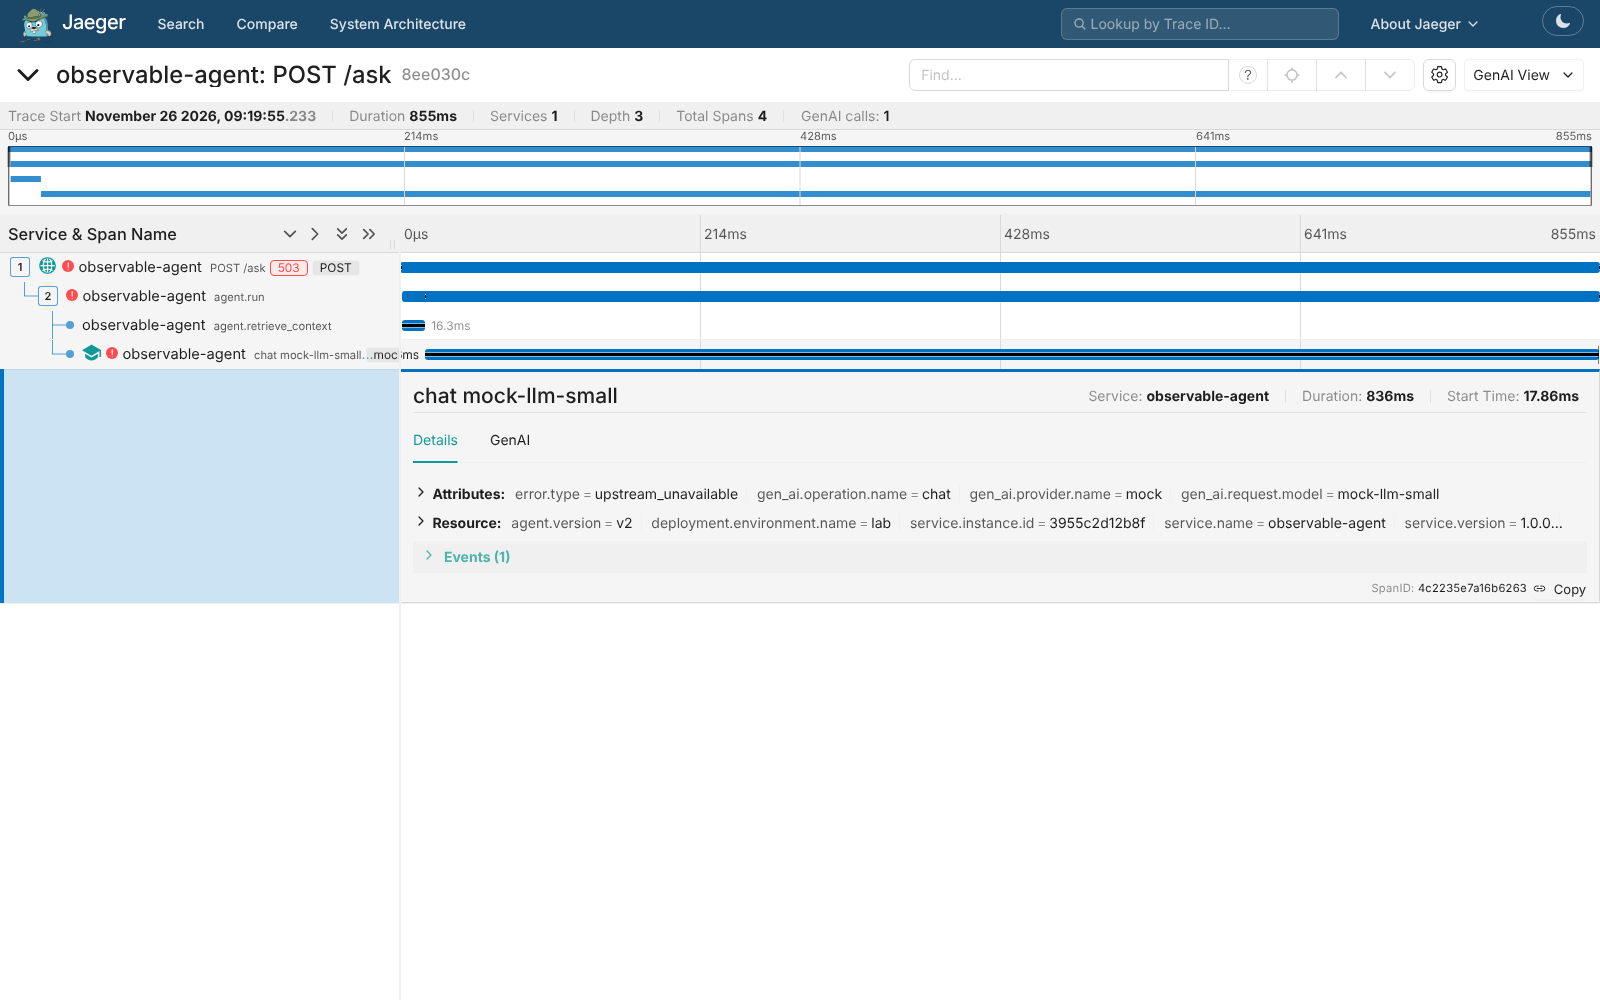
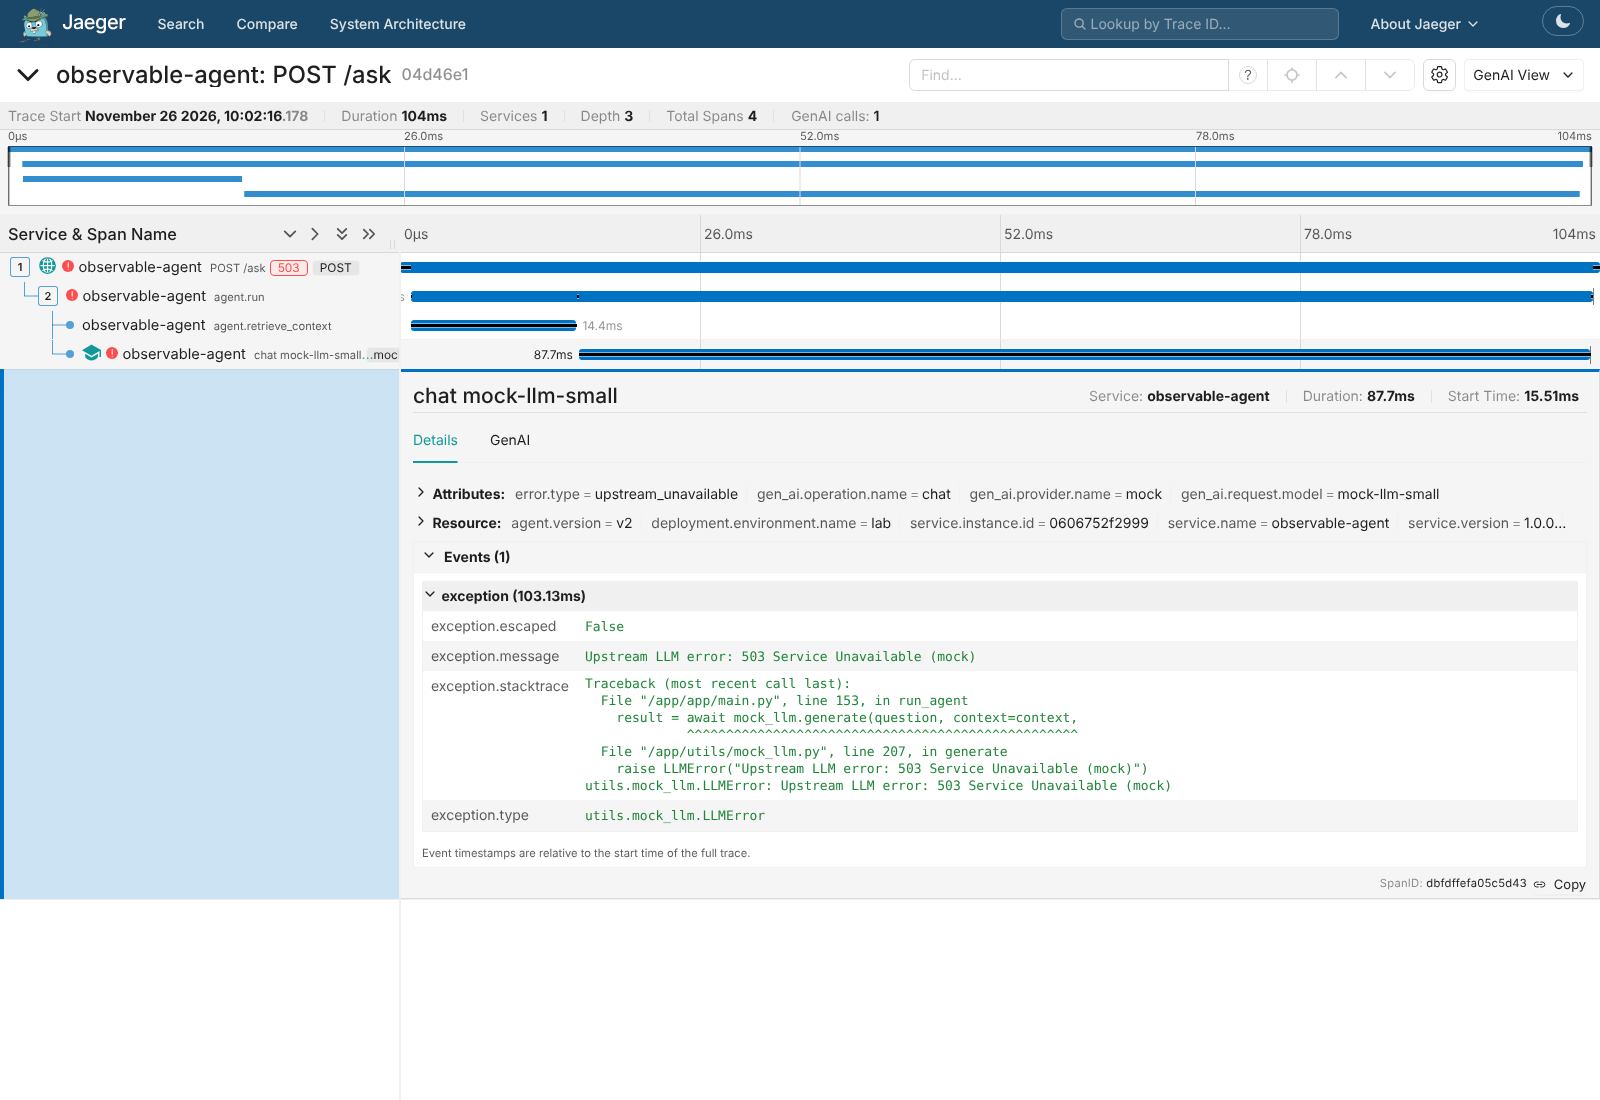
docs: fix error-trace evidence, Part 6 image size; add DEPLOYMENT.md draft
- jaeger-error-trace.png now shows the expanded exception event
  (message, stacktrace, type); report updated with matching trace_id/logs
- MISSION_ANSWERS: Part 6 image 248 MB (latest full check)
- DEPLOYMENT.md template with self-test commands and env vars

Claude-Session: https://claude.ai/code/session_01MTmULUUqV4bQNYgBRawjqZ

diff --git a/BENCHMARK_REPORT.md b/BENCHMARK_REPORT.md
@@ -83,7 +83,7 @@ Stack chạy bằng `docker compose -p k5-day14-observability ...` (Prometheus, 
 
 - [x] Dashboard Grafana khi đang có tải: `screenshots/grafana-dashboard.png` (3 instance, Locust 100 user: 61.1 req/s, error 1.13 %, p95 293 ms, in-flight 8, LLM cost 1h $0.5228)
 - [x] Một trace chậm trong Jaeger: `screenshots/jaeger-slow-trace.png`
-- [x] Một trace lỗi trong Jaeger: `screenshots/jaeger-error-trace.png` (POST /ask 503, span `chat mock-llm-small` có `error.type=upstream_unavailable`, event `exception`)
+- [x] Một trace lỗi trong Jaeger: `screenshots/jaeger-error-trace.png` (POST /ask 503, span `chat mock-llm-small` có `error.type=upstream_unavailable`, mở rộng event `exception` thấy `exception.message`, `exception.stacktrace`, `exception.type = utils.mock_llm.LLMError`)
 - [x] Trang Alerts của Prometheus: `screenshots/prometheus-alert-firing.png` (`AgentHighErrorRate` và `AgentInstanceDown` cùng **FIRING**)
 
 **Exercise 7.4: trả lời câu hỏi** (số đọc từ ảnh Grafana, đang chạy 100 user, 3 instance)
@@ -134,10 +134,11 @@ Trace chậm nhất trong lúc chạy 100 user / 3 instance:
 {"ts": "2026-11-26T09:19:45.735118+00:00", "level": "INFO", "service": "observable-agent", "instance": "86a51d79cfd7", "event": "http_request", "trace_id": "9fdac38321af69fa20aba44a17f0d4a6", "span_id": "ef0aa56da17a80a3", "request_id": "0cfb3796d7b0", "method": "POST", "route": "/ask", "status": 200, "ms": 1718.1}
 ```
 
-Trace lỗi (ảnh `jaeger-error-trace.png`): `trace_id` `8ee030cccb796937993d3dc7a5f7d86b`, 855 ms, span `chat mock-llm-small` 836 ms, status error `LLMError: Upstream LLM error: 503 Service Unavailable (mock)`:
+Trace lỗi (ảnh `jaeger-error-trace.png`, chạy với `MOCK_ERROR_RATE=0.3` để dễ bắt lỗi): `trace_id` `04d46e119b0be831ab26c30476eb7878`, tổng 104 ms, span `chat mock-llm-small` 87.7 ms mang status error. Event `exception` (tại 103.13 ms) có `exception.type = utils.mock_llm.LLMError`, `exception.message = Upstream LLM error: 503 Service Unavailable (mock)` và stacktrace trỏ tới `app/main.py` dòng 153 (`run_agent` → `mock_llm.generate`). Hai dòng log cùng `trace_id`:
 
 ```json
-{"ts": "2026-11-26T09:19:56.087485+00:00", "level": "INFO", "service": "observable-agent", "instance": "3955c2d12b8f", "event": "llm_error", "trace_id": "8ee030cccb796937993d3dc7a5f7d86b", "span_id": "b6f0f2fcfddc8148", "request_id": "f3d585a13b12", "error": "Upstream LLM error: 503 Service Unavailable (mock)"}
+{"ts": "2026-11-26T10:02:16.281849+00:00", "level": "INFO", "service": "observable-agent", "instance": "0606752f2999", "event": "llm_error", "trace_id": "04d46e119b0be831ab26c30476eb7878", "span_id": "695179617cef46b1", "request_id": "99292ac570b2", "error": "Upstream LLM error: 503 Service Unavailable (mock)"}
+{"ts": "2026-11-26T10:02:16.282149+00:00", "level": "INFO", "service": "observable-agent", "instance": "0606752f2999", "event": "http_request", "trace_id": "04d46e119b0be831ab26c30476eb7878", "span_id": "695179617cef46b1", "request_id": "99292ac570b2", "method": "POST", "route": "/ask", "status": 503, "ms": 103.6}
 ```
 
 ---

diff --git a/DEPLOYMENT.md b/DEPLOYMENT.md
@@ -1,0 +1,66 @@
+# Deployment Information
+
+> ⏳ **Chưa deploy.** Các chỗ có `<...>` sẽ được thay bằng URL thật và kết quả chạy thật sau khi deploy agent Part 6 (`06-lab-complete/`).
+
+## Public URL
+
+`<https://...>`
+
+## Platform
+
+`<Railway | Render>`. Deploy thư mục `06-lab-complete/`, dùng `railway.toml` hoặc `render.yaml`. Redis: `<Railway Redis | Render Key Value day14-redis>`.
+
+## Test Commands
+
+Đặt `BASE` là URL public và `AGENT_API_KEY` là key đã đặt trên nền tảng. Mỗi lệnh chỉ in mã HTTP nên chụp ảnh không lộ key.
+
+```bash
+curl -sS -o /dev/null -w '%{http_code}\n' "$BASE/health"     # 200
+curl -sS -o /dev/null -w '%{http_code}\n' "$BASE/ready"      # 200
+curl -sS -o /dev/null -w '%{http_code}\n' -X POST "$BASE/ask" -H 'Content-Type: application/json' -d '{"question":"Hello"}'   # 401
+curl -sS -o /dev/null -w '%{http_code}\n' -X POST "$BASE/ask" -H 'Content-Type: application/json' -H "X-API-Key: $AGENT_API_KEY" -d '{"question":"Hello"}'   # 200
+```
+
+Kết quả thực tế:
+
+```text
+<dán output 4 lệnh ở đây>
+```
+
+### Health check
+
+```bash
+curl "$BASE/health"
+# {"status":"ok"}
+```
+
+### API test (with authentication)
+
+```bash
+curl -X POST "$BASE/ask" \
+  -H "X-API-Key: $AGENT_API_KEY" \
+  -H "Content-Type: application/json" \
+  -d '{"user_id": "test", "question": "Hello"}'
+```
+
+## Environment Variables Set
+
+Đặt trên nền tảng, không ghi trong code:
+
+| Biến | Giá trị / nguồn |
+|---|---|
+| `PORT` | Nền tảng tự cấp |
+| `ENVIRONMENT` | `production` |
+| `AGENT_API_KEY` | Secret (Render: `generateValue: true`; Railway: `railway variables --set`) |
+| `REDIS_URL` | Railway: `${{Redis.REDIS_URL}}`; Render: `fromService` → `day14-redis` |
+| `RATE_LIMIT_PER_MINUTE` | `10` |
+| `DAILY_BUDGET_USD` / `MONTHLY_BUDGET_USD` | `1.0` / `10.0` |
+| `LOG_LEVEL` | `INFO` |
+
+Nếu `/ready` hoặc `/ask` trả 503 thì agent chưa kết nối được Redis. Xem dòng log `redis_unreachable` hoặc `ready_failed` (host đã che mật khẩu) để biết nguyên nhân.
+
+## Screenshots
+
+- [Deployment dashboard](screenshots/dashboard.png)
+- [Service running](screenshots/running.png)
+- [Test results](screenshots/test.png)

diff --git a/MISSION_ANSWERS.md b/MISSION_ANSWERS.md
@@ -406,7 +406,7 @@ Chạy bản đầy đủ (có Docker) trong `06-lab-complete/`:
 ================================================================
 ```
 
-Chi tiết đo được: image **247 MB**; `docker stop` tắt êm (exit code 0, **0.8 s**); SIGTERM lúc đang có request → request vẫn 200; hết budget → 402 ở request thứ 1; mọi dòng log là JSON hợp lệ.
+Chi tiết đo được: image **248 MB**; `docker stop` tắt êm (exit code 0, **0.8 s**); SIGTERM lúc đang có request → request vẫn 200; hết budget → 402 ở request thứ 1; mọi dòng log là JSON hợp lệ.
 
 ---
 
